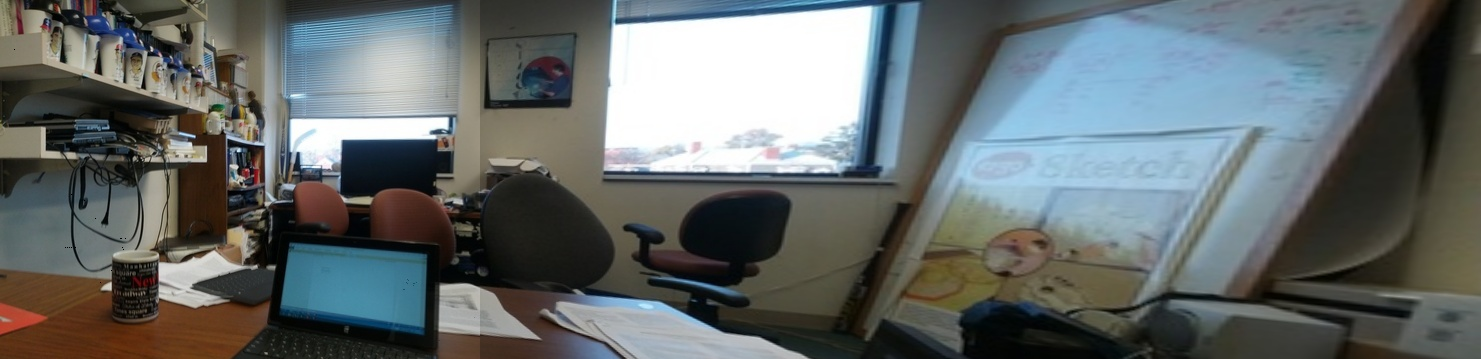
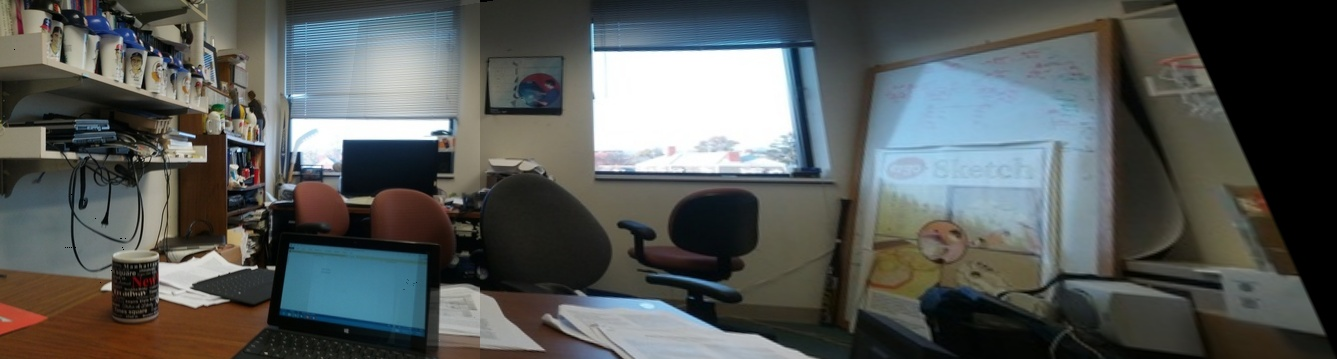
更新

diff --git a/Code/main.py b/Code/main.py
@@ -122,54 +122,57 @@ def Warp(A, B):
                        flags=0)
     img3 = cv2.drawMatchesKnn(img1gray, kp1, img2gray, kp2, matches, None,
                               **draw_params)
-    cv2.imshow("FLANN", img3)
+    #cv2.imshow("FLANN", img3)
     #rows, cols = srcImg.shape[:2]
     #寻找单应性矩阵
     MIN_MATCH_COUNT = 20
     if len(good) > MIN_MATCH_COUNT:
         src_pts = np.float32([kp1[m.queryIdx].pt for m in good]).reshape(-1, 2)
         dst_pts = np.float32([kp2[m.trainIdx].pt for m in good]).reshape(-1, 2)
-    H = my_RANSAC.RANSAC(src_pts, dst_pts)
-    print("单应性矩阵H为：")
-    print(H)
+        H = my_RANSAC.RANSAC(src_pts, dst_pts)
+        #print("单应性矩阵H为：")
+        #print(H)
     #todo: implement this function manually.
     # warpImg = cv2.warpPerspective(dstImg, np.linalg.inv(H), (dstImg.shape[1] + srcImg.shape[1], dstImg.shape[0]))
 
-    warpImg = my_Warp.myWarpPerspective(
-        dstImg, np.linalg.inv(H),
-        (dstImg.shape[0], dstImg.shape[1] + srcImg.shape[1]))
-    rows, cols = srcImg.shape[:2]
+        warpImg = my_Warp.myWarpPerspective(
+            dstImg, np.linalg.inv(H),
+            (dstImg.shape[0], dstImg.shape[1] + srcImg.shape[1]))
+        rows, cols = srcImg.shape[:2]
 
-    display(warpImg)
-    for col in range(0, cols):
-        if srcImg[:, col].any() and warpImg[:, col].any():
-            left = col
-            break
-    for col in range(cols - 1, 0, -1):
-        if srcImg[:, col].any() and warpImg[:, col].any():
-            right = col
-            break
-
-    res = np.zeros([rows, cols, 3], np.uint8)
-    #阿尔法拼接方法
-    for row in range(0, rows):
+        #display(warpImg)
         for col in range(0, cols):
-            if not dstImg[row, col].any():
-                res[row, col] = warpImg[row, col]
-            elif not warpImg[row, col].any():
-                res[row, col] = srcImg[row, col]
-            else:
-                dstImgLen = float(abs(col - left))
-                srcImgLen = float(abs(col - right))
-                alpha = dstImgLen / (dstImgLen + srcImgLen)
-                res[row, col] = np.clip(
-                    srcImg[row, col] * (1 - alpha) + warpImg[row, col] * alpha,
-                    0, 255)
+            if srcImg[:, col].any() and warpImg[:, col].any():
+                left = col
+                break
+        for col in range(cols - 1, 0, -1):
+            if srcImg[:, col].any() and warpImg[:, col].any():
+                right = col
+                break
 
-    warpImg[0:srcImg.shape[0], 0:srcImg.shape[1]] = res
-    warpImg = remove_the_blackborder(warpImg)
-    display(warpImg)
-    return warpImg
+        res = np.zeros([rows, cols, 3], np.uint8)
+        #阿尔法拼接方法
+        for row in range(0, rows):
+            for col in range(0, cols):
+                if not dstImg[row, col].any():
+                    res[row, col] = warpImg[row, col]
+                elif not warpImg[row, col].any():
+                    res[row, col] = srcImg[row, col]
+                else:
+                    dstImgLen = float(abs(col - left))
+                    srcImgLen = float(abs(col - right))
+                    alpha = dstImgLen / (dstImgLen + srcImgLen)
+                    res[row, col] = np.clip(
+                        srcImg[row, col] * (1 - alpha) + warpImg[row, col] * alpha,
+                        0, 255)
+
+        warpImg[0:srcImg.shape[0], 0:srcImg.shape[1]] = res
+        warpImg = remove_the_blackborder(warpImg)
+        #display(warpImg)
+        return warpImg
+    else:
+        print("MAP: Not  enough  matches are found!")
+        exit(0)
 
 def Splice(dir_name):
     if dir_name == "..//data//source004":
@@ -178,6 +181,7 @@ def Splice(dir_name):
         img3 = cv2.imread(dir_name+'//panorama03_07.jpg')
         imgnew1 = Warp(img1, img2)
         imgnew2 = Warp(imgnew1, img3)
+        display(imgnew2)
         save(imgnew2, 'source004')
     elif dir_name == '..//data//source005':
         img1 = cv2.imread(dir_name+'//file0001.jpg')
@@ -189,6 +193,7 @@ def Splice(dir_name):
         imgnew2 = Warp(img2, img3)
         imgnew3 = Warp(imgnew1, img4)
         imgnew4 = Warp(imgnew3, imgnew2)
+        display(imgnew4)
         save(imgnew4, 'source005')
     elif dir_name == '..//data//source006':
         img1 = cv2.imread(dir_name+'//yosemite1.jpg')
@@ -196,6 +201,7 @@ def Splice(dir_name):
         img3 = cv2.imread(dir_name+'//yosemite3.jpg')
         imgnew1 = Warp(img1, img2)
         imgnew2 = Warp(imgnew1, img3)
+        display(imgnew2)
         save(imgnew2, 'source006')
     elif dir_name == '..//data//source007':
         img1 = cv2.imread(dir_name+'//0.jpg')
@@ -205,6 +211,7 @@ def Splice(dir_name):
         imgnew1 = Warp(img1, img2)
         imgnew2 = Warp(img3, img4)
         imgnew3 = Warp(imgnew1, imgnew2)
+        display(imgnew3)
         save(imgnew3, 'source007')
     elif dir_name == '..//data//source008':
         img1 = cv2.imread(dir_name+'//01.jpg')
@@ -212,6 +219,7 @@ def Splice(dir_name):
         img3 = cv2.imread(dir_name+'//03.jpg')
         imgnew1 = Warp(img1, img2)
         imgnew2 = Warp(imgnew1, img3)
+        display(imgnew2)
         save(imgnew2, 'source008')
     elif dir_name == '..//data//my_source':
         img1 = cv2.imread(dir_name + '//DJI_0278.jpg')
@@ -219,16 +227,35 @@ def Splice(dir_name):
         img3 = cv2.imread(dir_name + '//DJI_0280.jpg')
         imgnew1 = Warp(img1, img2)
         imgnew2 = Warp(imgnew1, img3)
+        display(imgnew2)
         save(imgnew2, 'my_source')
-
-
-
+    elif dir_name == '..//data//test':
+        img1 = cv2.imread(dir_name + '//01.jpg')
+        img2 = cv2.imread(dir_name + '//02.jpg')
+        img3 = cv2.imread(dir_name + '//03.jpg')
+        imgnew1 = Warp(img1, img2)
+        imgnew2 = Warp(imgnew1, img3)
+        display(imgnew2)
+        save(imgnew2, 'test')
 
 if __name__ == '__main__':
     dir_name = '..//data'
     dir_2_name = os.listdir(dir_name)
-    #print(dir_2_name)
+    print("图像处理中...")
     for img_dir in dir_2_name:
         img_path = dir_name +'//'+ img_dir
-        #print(img_path)
         Splice(img_path)
+    print("图像处理完成，请在Result文件夹查看！")
+    '''
+    dir_name = '..//data//source005'
+    img1 = cv2.imread(dir_name + '//file0001.jpg')
+    img2 = cv2.imread(dir_name + '//file0002.jpg')
+    img3 = cv2.imread(dir_name + '//file0003.jpg')
+    img4 = cv2.imread(dir_name + '//file0004.jpg')
+    img5 = cv2.imread(dir_name + '//file0005.jpg')
+    imgnew1 = Warp(img5, img1)
+    imgnew2 = Warp(img2, img3)
+    imgnew3 = Warp(imgnew1, img4)
+    imgnew4 = Warp(imgnew3, imgnew2)
+    display(imgnew4)
+    '''

diff --git a/Code/my_RANSAC.py b/Code/my_RANSAC.py
@@ -38,7 +38,7 @@ def RANSAC(A,B):
     random.seed(time.time())
     min_e = 999999
     e = 5
-    p = 0.9#
+    p = 0.9
     n = len(A)
     H = False
     for ite in range(2000):
@@ -69,7 +69,9 @@ def RANSAC(A,B):
                 min_e = m
                 H = h
             #如果有超过p比例的点满足e_h小于e，则认为这个H是一个好的估计
+            '''
             if count/n > p:
                 break
+            '''
     return H
 
